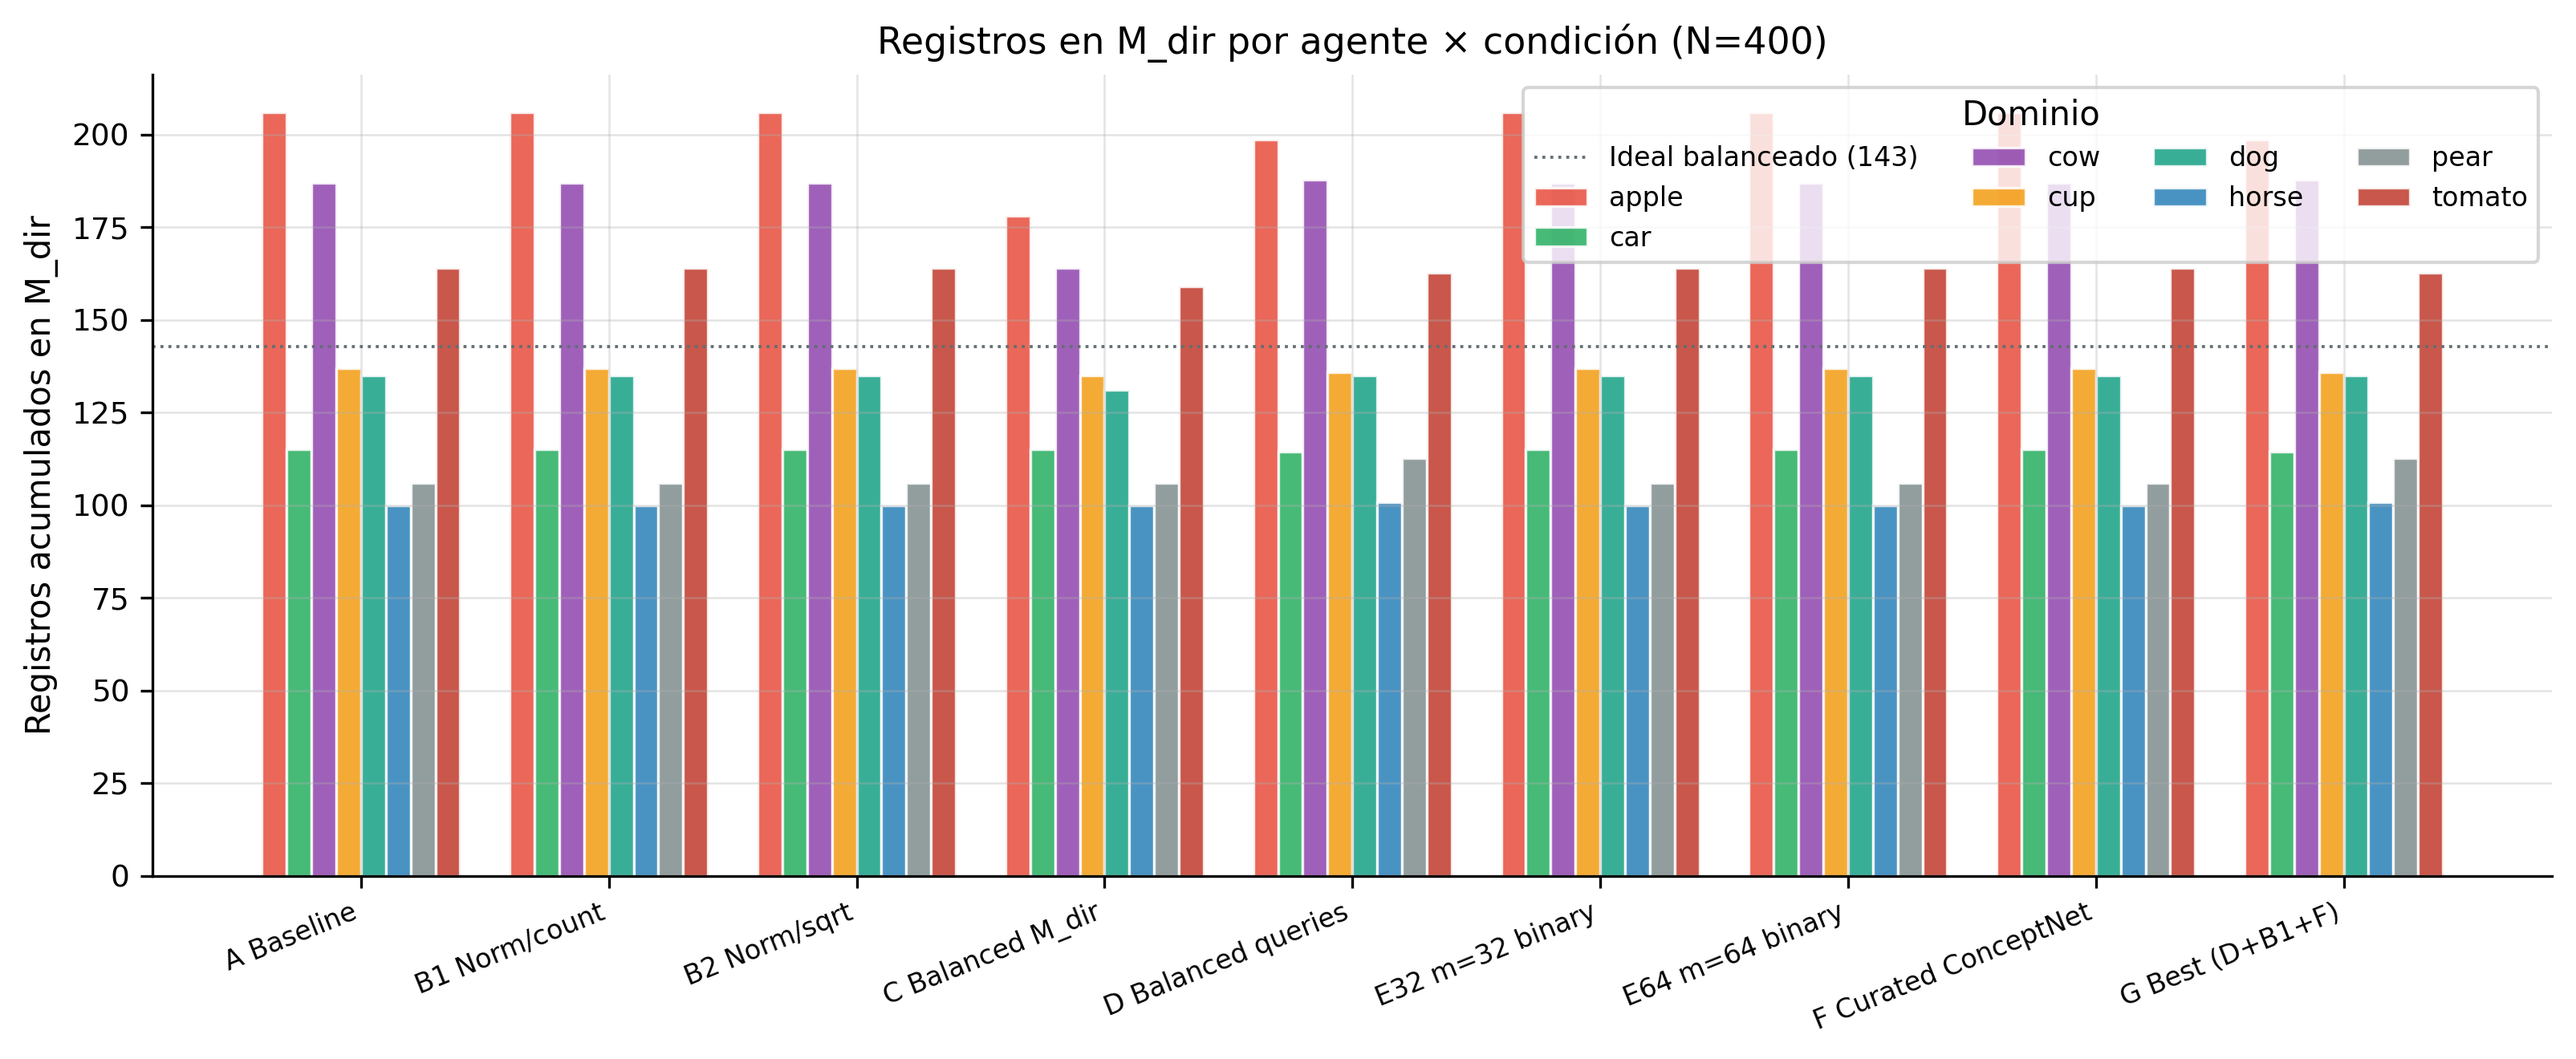
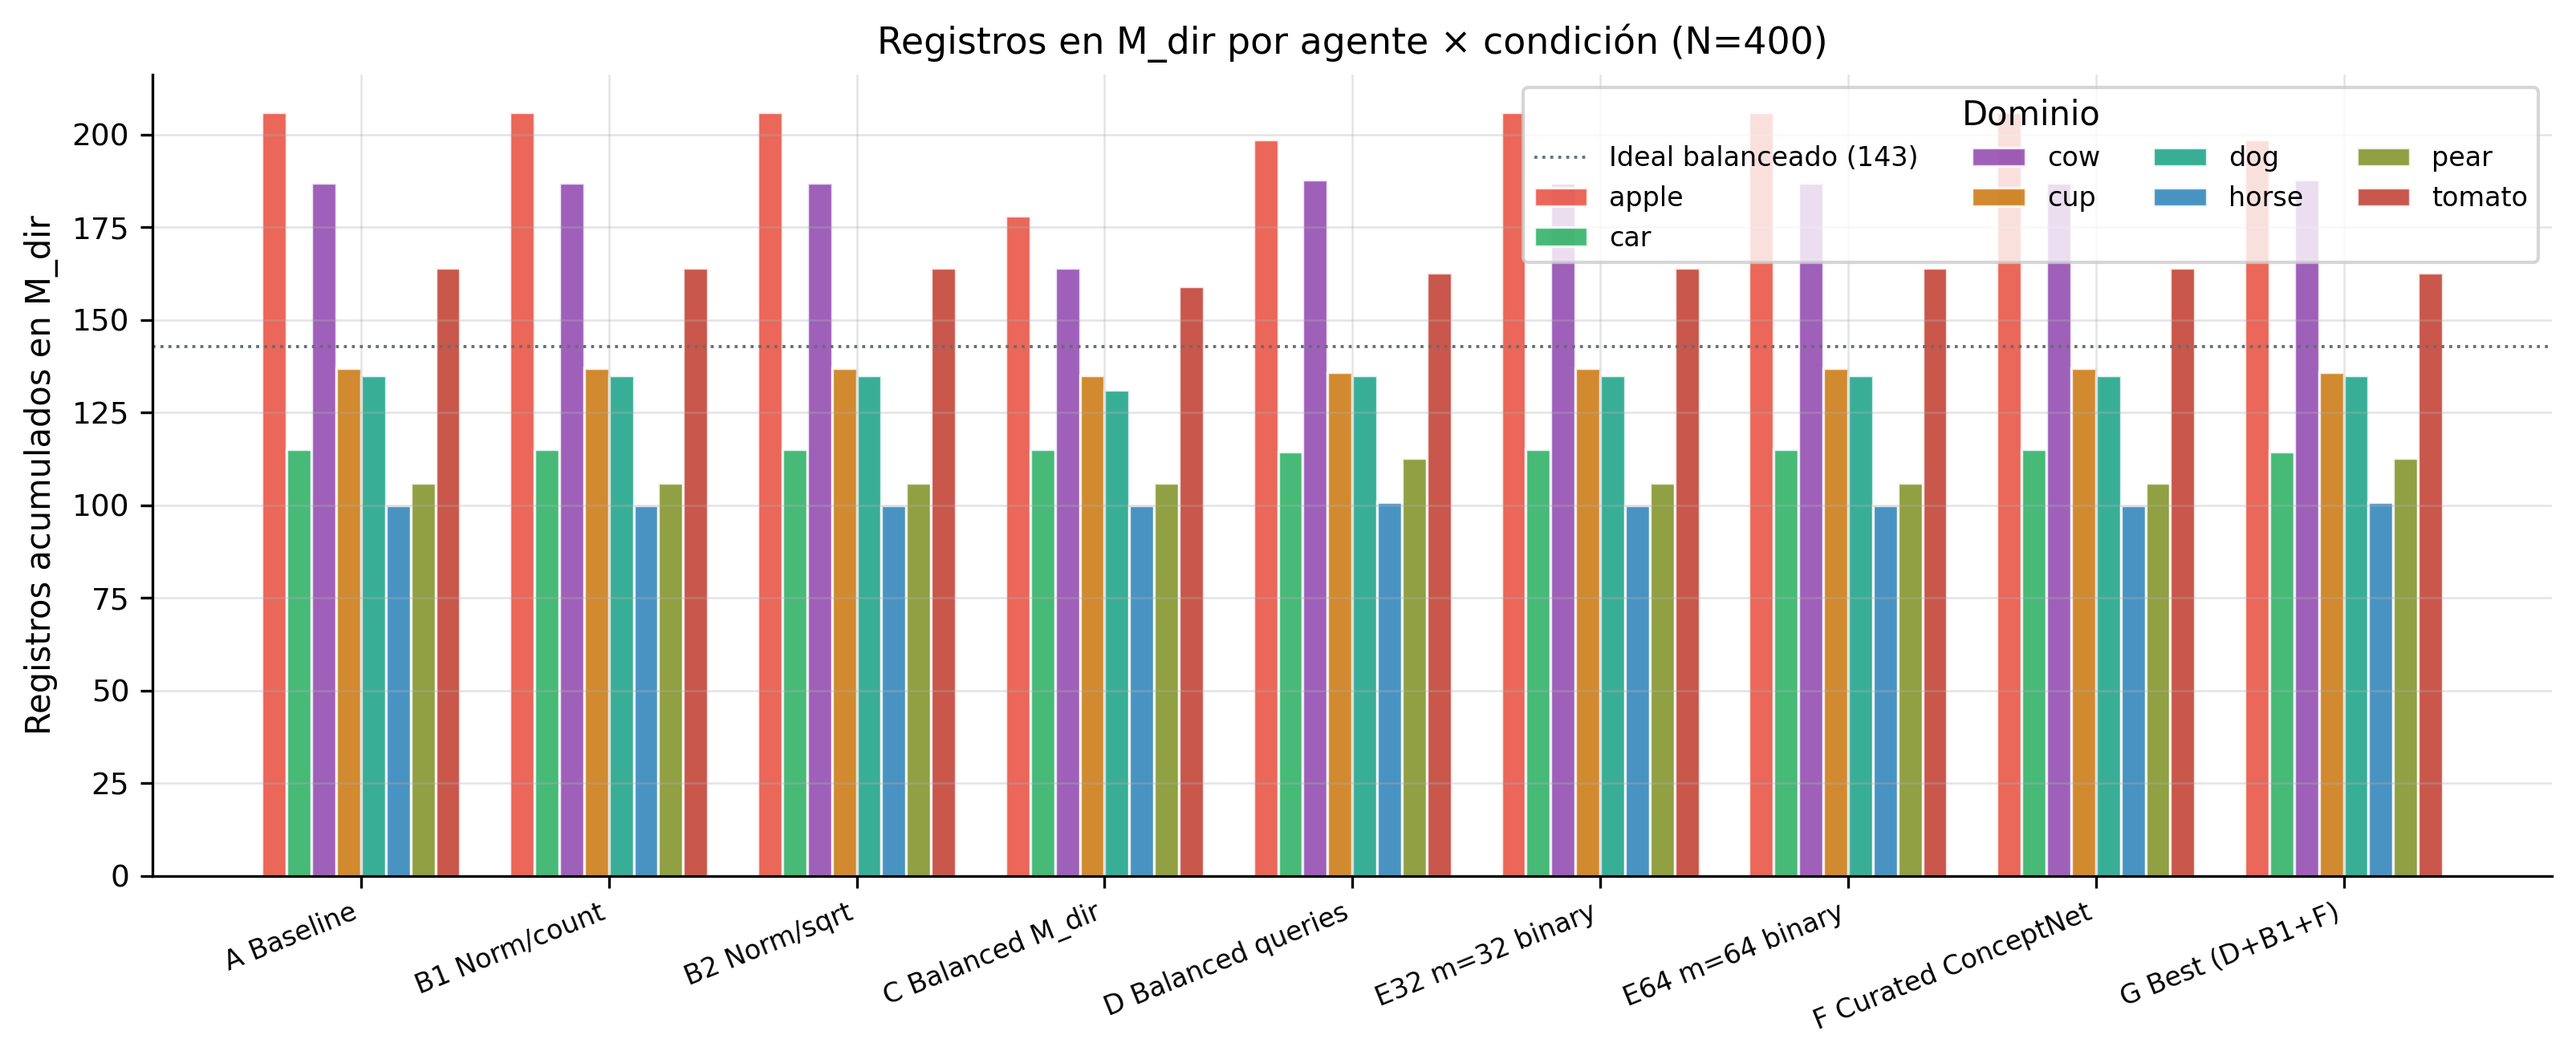
Figuras del paper regeneradas con la paleta validada + fix de encoding cp1252
- Las 32 figuras (EN+ES) ahora usan los 2 hues corregidos por el validador
  de paleta: cup #f39c12→#c9760a (banda de luminosidad) y pear
  #7f8c8d→#7d8f22 (croma 0.015 leía como gris). App y paper comparten
  exactamente la misma paleta categórica, validada en dark y light.
- Bug destapado por la regeneración: el AVISO "F ≡ A" agregado en la
  auditoría crasheaba en consolas cp1252 (UnicodeEncodeError en ≡) cuando
  fig_precision_recall llama a build_curated_apple_mdom, y
  generate_paper_figures.py era el ÚNICO runner sin el
  sys.stdout.reconfigure(utf-8) estándar. Fix estructural (reconfigure
  agregado, paridad con los demás runners) + defensivo (aviso en ASCII
  puro "F == A"). Primera corrida murió a medias (5 figuras); esta corrió
  completa (exit 0, 33 archivos).

diff --git a/run_ablation.py b/run_ablation.py
@@ -149,8 +149,8 @@ def build_curated_apple_mdom() -> HeteroAssociativeMemory:
         # El vocabulario v4 (masa asociativa) ya no contiene los labels de
         # Apple Inc.: las condiciones F/G quedan como NO-OP (F ≡ A). Se avisa
         # en vez de narrar en el reporte un efecto que no ocurre.
-        print("  AVISO: la curación F/G no removió NADA (los labels de Apple "
-              "Inc. ya no están en labels_apple.json). F ≡ A en esta corrida.")
+        print("  AVISO: la curacion F/G no removio NADA (los labels de Apple "
+              "Inc. ya no estan en labels_apple.json). F == A en esta corrida.")
 
     label_seq = []
     for word, freq in curated.items():

diff --git a/generate_paper_figures.py b/generate_paper_figures.py
@@ -26,6 +26,9 @@ from scipy.spatial import ConvexHull
 
 warnings.filterwarnings("ignore")
 
+if hasattr(sys.stdout, "reconfigure"):
+    sys.stdout.reconfigure(encoding="utf-8", errors="replace")
+
 ROOT = Path(__file__).parent
 sys.path.insert(0, str(ROOT / "src"))
 
